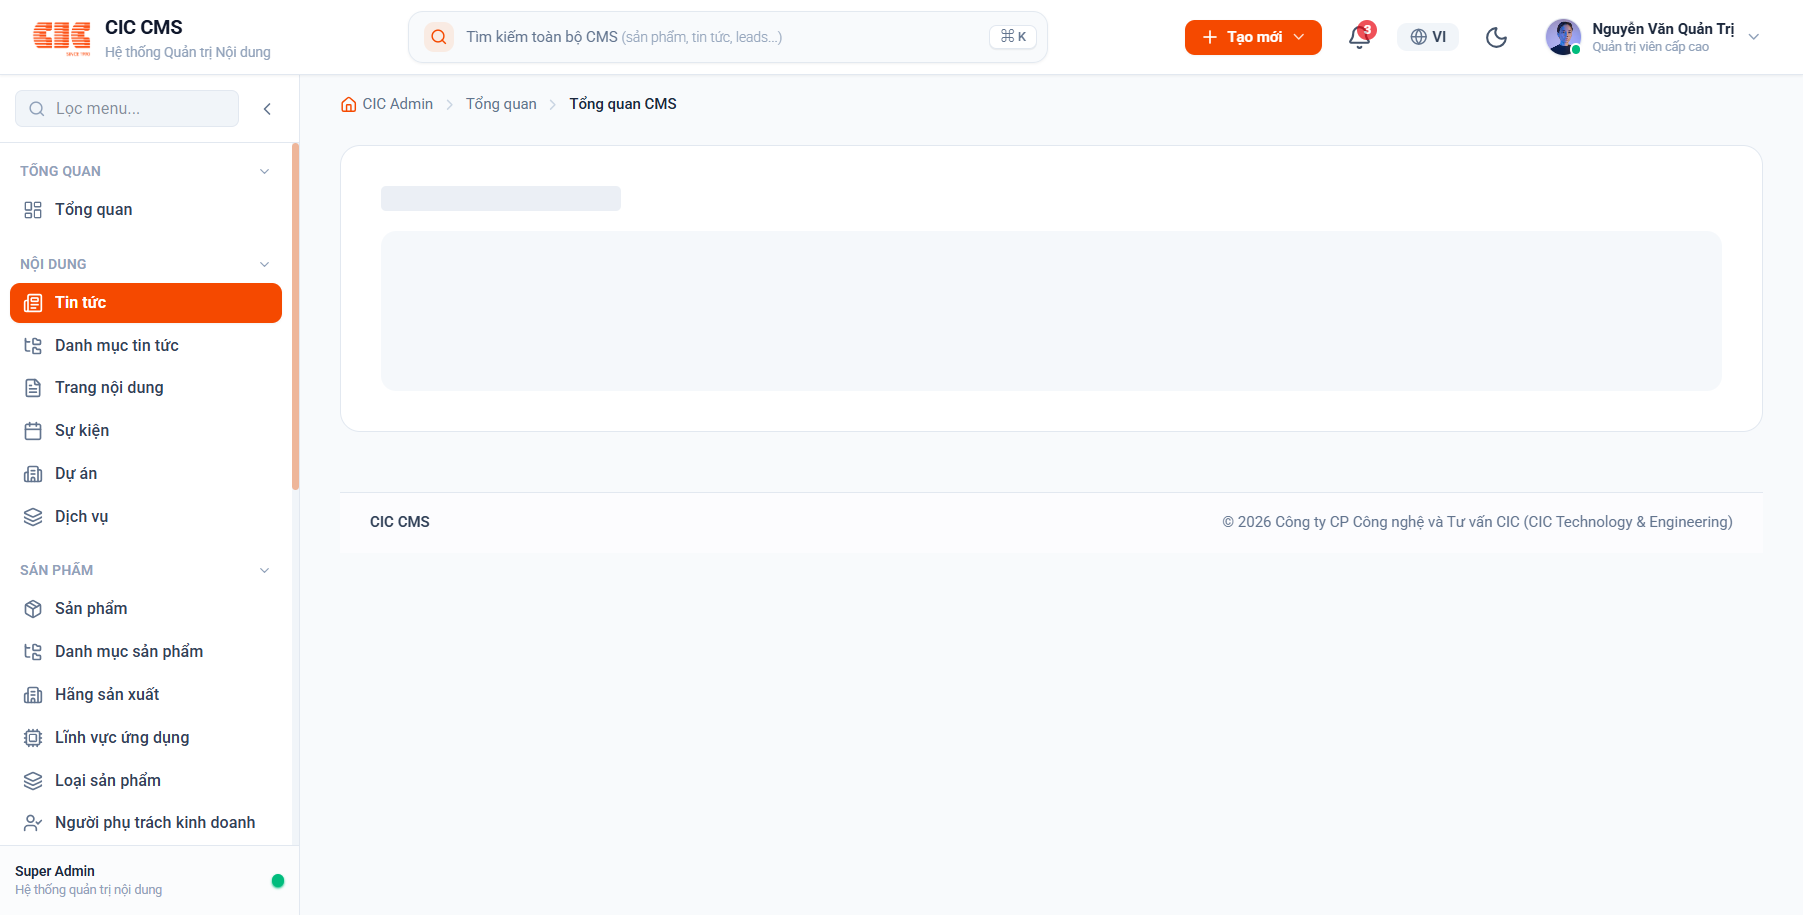
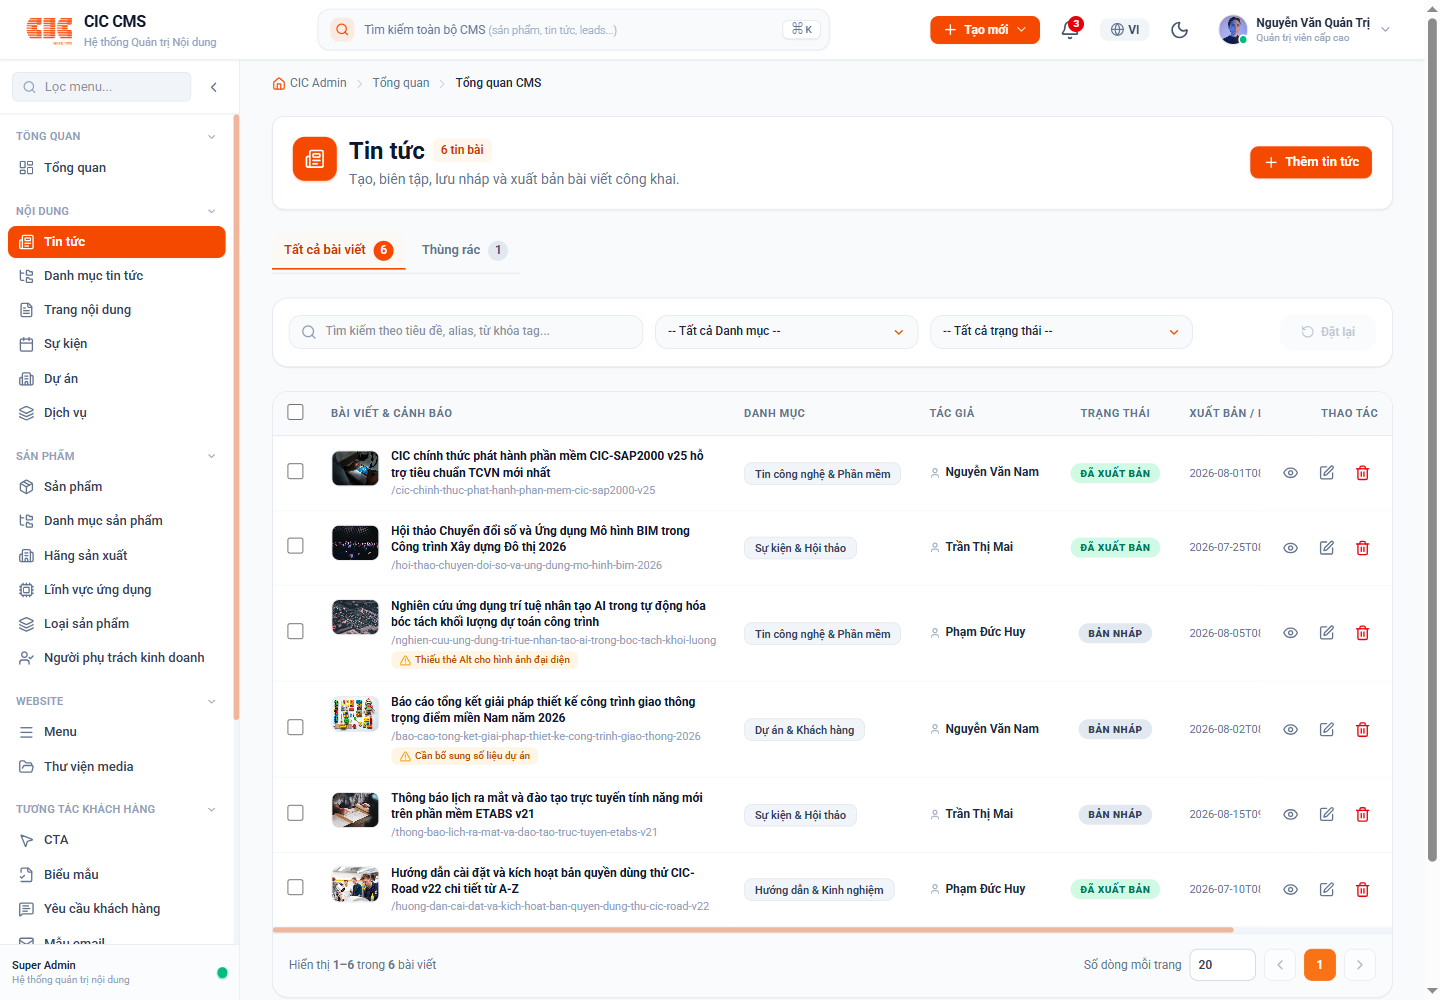
docs(cms): update function guide and customer request priority

diff --git a/src/cms/modules/customer_interaction/customer_requests/CustomerRequestManager.tsx b/src/cms/modules/customer_interaction/customer_requests/CustomerRequestManager.tsx
@@ -26,6 +26,7 @@ import { RequestDetailPage } from './components/RequestDetailPage';
 import { RequestReassignModal } from './components/RequestReassignModal';
 import { RequestQuickNotesModal } from './components/RequestQuickNotesModal';
 import { REQUEST_STATUSES, REQUEST_STATUS_LABELS, PRIORITY_LABELS } from '../shared/constants/statusTypes';
+import type { PriorityLevel } from '../shared/constants/statusTypes';
 import { CmsPageHeader } from '../../../components/ui/CmsPageHeader';
 import { CmsButton } from '../../../components/ui/CmsButton';
 import { CmsTabs } from '../../../components/ui/CmsTabs';
@@ -471,16 +472,6 @@ export const CustomerRequestManager: React.FC<CustomerRequestManagerProps> = ({ 
     );
   };
 
-  const handleDuplicateRequest = (request: CustomerRequest) => {
-    const newRequest: CustomerRequest = {
-      ...request,
-      id: `req_${Date.now()}`,
-      status: 'new',
-      createdAt: new Date().toISOString(),
-    };
-    setRequests((prev) => [newRequest, ...prev]);
-  };
-
   const handleAssignUser = (id: string, userId: string) => {
     const staff = MOCK_STAFF_MEMBERS.find((s) => s.id === userId);
     if (staff) {
@@ -522,6 +513,37 @@ export const CustomerRequestManager: React.FC<CustomerRequestManagerProps> = ({ 
             }
           : r
       )
+    );
+  };
+
+  const handleUpdatePriority = (id: string, newPriority: PriorityLevel) => {
+    const now = new Date().toISOString();
+
+    setRequests((prev) =>
+      prev.map((request) => {
+        if (request.id !== id || request.priority === newPriority) return request;
+
+        const updated: CustomerRequest = {
+          ...request,
+          priority: newPriority,
+          updatedAt: now,
+          logs: [
+            ...(request.logs || []),
+            {
+              id: `log_${Date.now()}`,
+              actionType: 'priority_changed',
+              oldValue: request.priority,
+              newValue: newPriority,
+              createdBy: 'current_user',
+              createdByName: 'Quản trị viên',
+              createdAt: now,
+            },
+          ],
+        };
+
+        setSelectedRequest((current) => (current?.id === id ? updated : current));
+        return updated;
+      })
     );
   };
 
@@ -749,7 +771,6 @@ export const CustomerRequestManager: React.FC<CustomerRequestManagerProps> = ({ 
             onToggleSelectAll={handleToggleSelectAll}
             onToggleSelectRequest={handleToggleSelectRequest}
             onViewRequest={handleViewDetail}
-            onDuplicateRequest={handleDuplicateRequest}
             onDeleteRequest={handleDeleteRequest}
             onQuickStatusToggle={handleQuickStatusToggle}
             onReassignRequest={handleOpenReassignSingle}
@@ -766,6 +787,7 @@ export const CustomerRequestManager: React.FC<CustomerRequestManagerProps> = ({ 
             onAssignUser={handleAssignUser}
             onReassignRequest={handleOpenReassignSingle}
             onUpdateStatus={handleChangeStatus}
+            onUpdatePriority={handleUpdatePriority}
             onAddNote={handleAddNote}
           />
         )

diff --git a/src/cms/modules/customer_interaction/customer_requests/components/RequestDetailPage.tsx b/src/cms/modules/customer_interaction/customer_requests/components/RequestDetailPage.tsx
@@ -29,7 +29,8 @@ import {
 } from 'lucide-react';
 import { CustomerRequest } from '../types';
 import { REQUEST_STATUS_LABELS, REQUEST_STATUS_COLORS, REQUEST_STATUSES } from '../../shared/constants/statusTypes';
-import { PRIORITY_LABELS, PRIORITY_COLORS } from '../../shared/constants/statusTypes';
+import { PRIORITY_LEVELS, PRIORITY_LABELS, PRIORITY_COLORS } from '../../shared/constants/statusTypes';
+import type { PriorityLevel } from '../../shared/constants/statusTypes';
 
 interface RequestDetailPageProps {
   requestId: string;
@@ -38,6 +39,7 @@ interface RequestDetailPageProps {
   onAssignUser?: (requestId: string, userId: string) => void;
   onReassignRequest?: (request: CustomerRequest) => void;
   onUpdateStatus: (requestId: string, newStatus: string) => void;
+  onUpdatePriority: (requestId: string, newPriority: PriorityLevel) => void;
   onAddNote: (requestId: string, noteContent: string) => void;
 }
 
@@ -48,6 +50,7 @@ export const RequestDetailPage: React.FC<RequestDetailPageProps> = ({
   onAssignUser,
   onReassignRequest,
   onUpdateStatus,
+  onUpdatePriority,
   onAddNote,
 }) => {
   const [activeTab, setActiveTab] = useState<'info' | 'source' | 'logs'>('info');
@@ -215,6 +218,23 @@ export const RequestDetailPage: React.FC<RequestDetailPageProps> = ({
               {REQUEST_STATUSES.map((st) => (
                 <option key={st.value} value={st.value}>
                   Trạng thái: {st.label}
+                </option>
+              ))}
+            </select>
+            <ChevronDown className="w-3.5 h-3.5 absolute right-2.5 top-2.5 text-slate-400 pointer-events-none" />
+          </div>
+
+          {/* Quick Priority Select */}
+          <div className="relative">
+            <select
+              aria-label="Cập nhật mức ưu tiên"
+              value={request.priority}
+              onChange={(e) => onUpdatePriority(request.id, e.target.value as PriorityLevel)}
+              className="appearance-none pl-3 pr-8 py-2 bg-slate-100 hover:bg-slate-200 dark:bg-slate-800 dark:hover:bg-slate-700 border border-slate-200 dark:border-slate-700 rounded-xl text-xs font-bold text-slate-800 dark:text-slate-200 focus:outline-none focus:ring-2 focus:ring-orange-500/40 focus:border-orange-500 cursor-pointer transition-colors"
+            >
+              {PRIORITY_LEVELS.map((priority) => (
+                <option key={priority.value} value={priority.value}>
+                  Ưu tiên: {priority.label}
                 </option>
               ))}
             </select>

diff --git a/src/cms/modules/customer_interaction/customer_requests/components/RequestList.tsx b/src/cms/modules/customer_interaction/customer_requests/components/RequestList.tsx
@@ -2,7 +2,6 @@ import React, { useState } from 'react';
 import {
   Eye,
   Edit3,
-  Copy,
   Trash2,
   FileText,
   List,
@@ -30,7 +29,6 @@ interface RequestListProps {
   onToggleSelectAll: () => void;
   onToggleSelectRequest: (id: string) => void;
   onViewRequest: (request: CustomerRequest) => void;
-  onDuplicateRequest: (request: CustomerRequest) => void;
   onDeleteRequest: (id: string) => void;
   onQuickStatusToggle: (id: string, currentStatus: string) => void;
   onReassignRequest?: (request: CustomerRequest) => void;
@@ -44,7 +42,6 @@ export const RequestList: React.FC<RequestListProps> = ({
   onToggleSelectAll,
   onToggleSelectRequest,
   onViewRequest,
-  onDuplicateRequest,
   onDeleteRequest,
   onQuickStatusToggle,
   onReassignRequest,
@@ -336,13 +333,6 @@ export const RequestList: React.FC<RequestListProps> = ({
                         size="sm"
                         aria-label="Ghi chú nội bộ"
                         title="Ghi chú nội bộ"
-                      />
-                      <CmsIconButton
-                        onClick={() => onDuplicateRequest(request)}
-                        icon={<Copy />}
-                        size="sm"
-                        aria-label="Nhân bản"
-                        title="Nhân bản"
                       />
                       <CmsIconButton
                         onClick={() => onDeleteRequest(request.id)}
